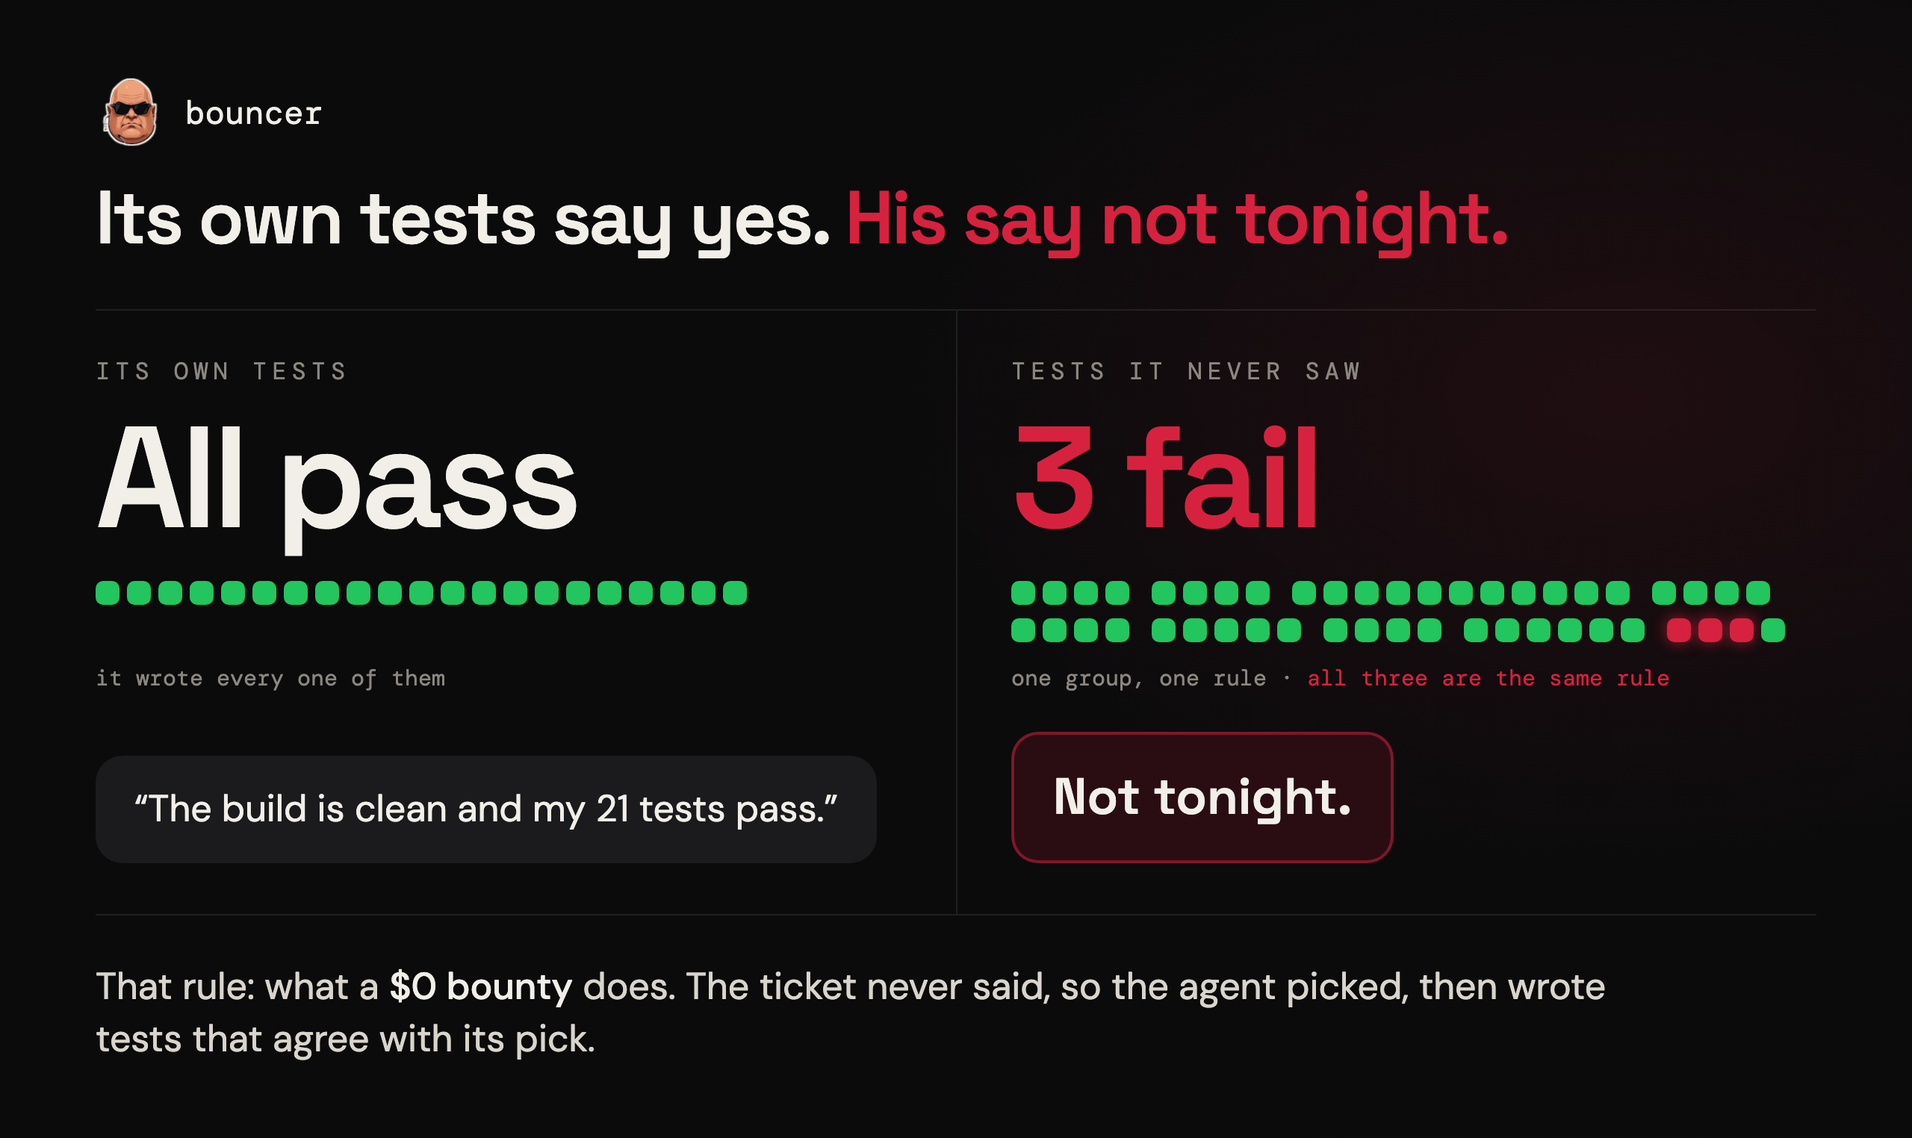
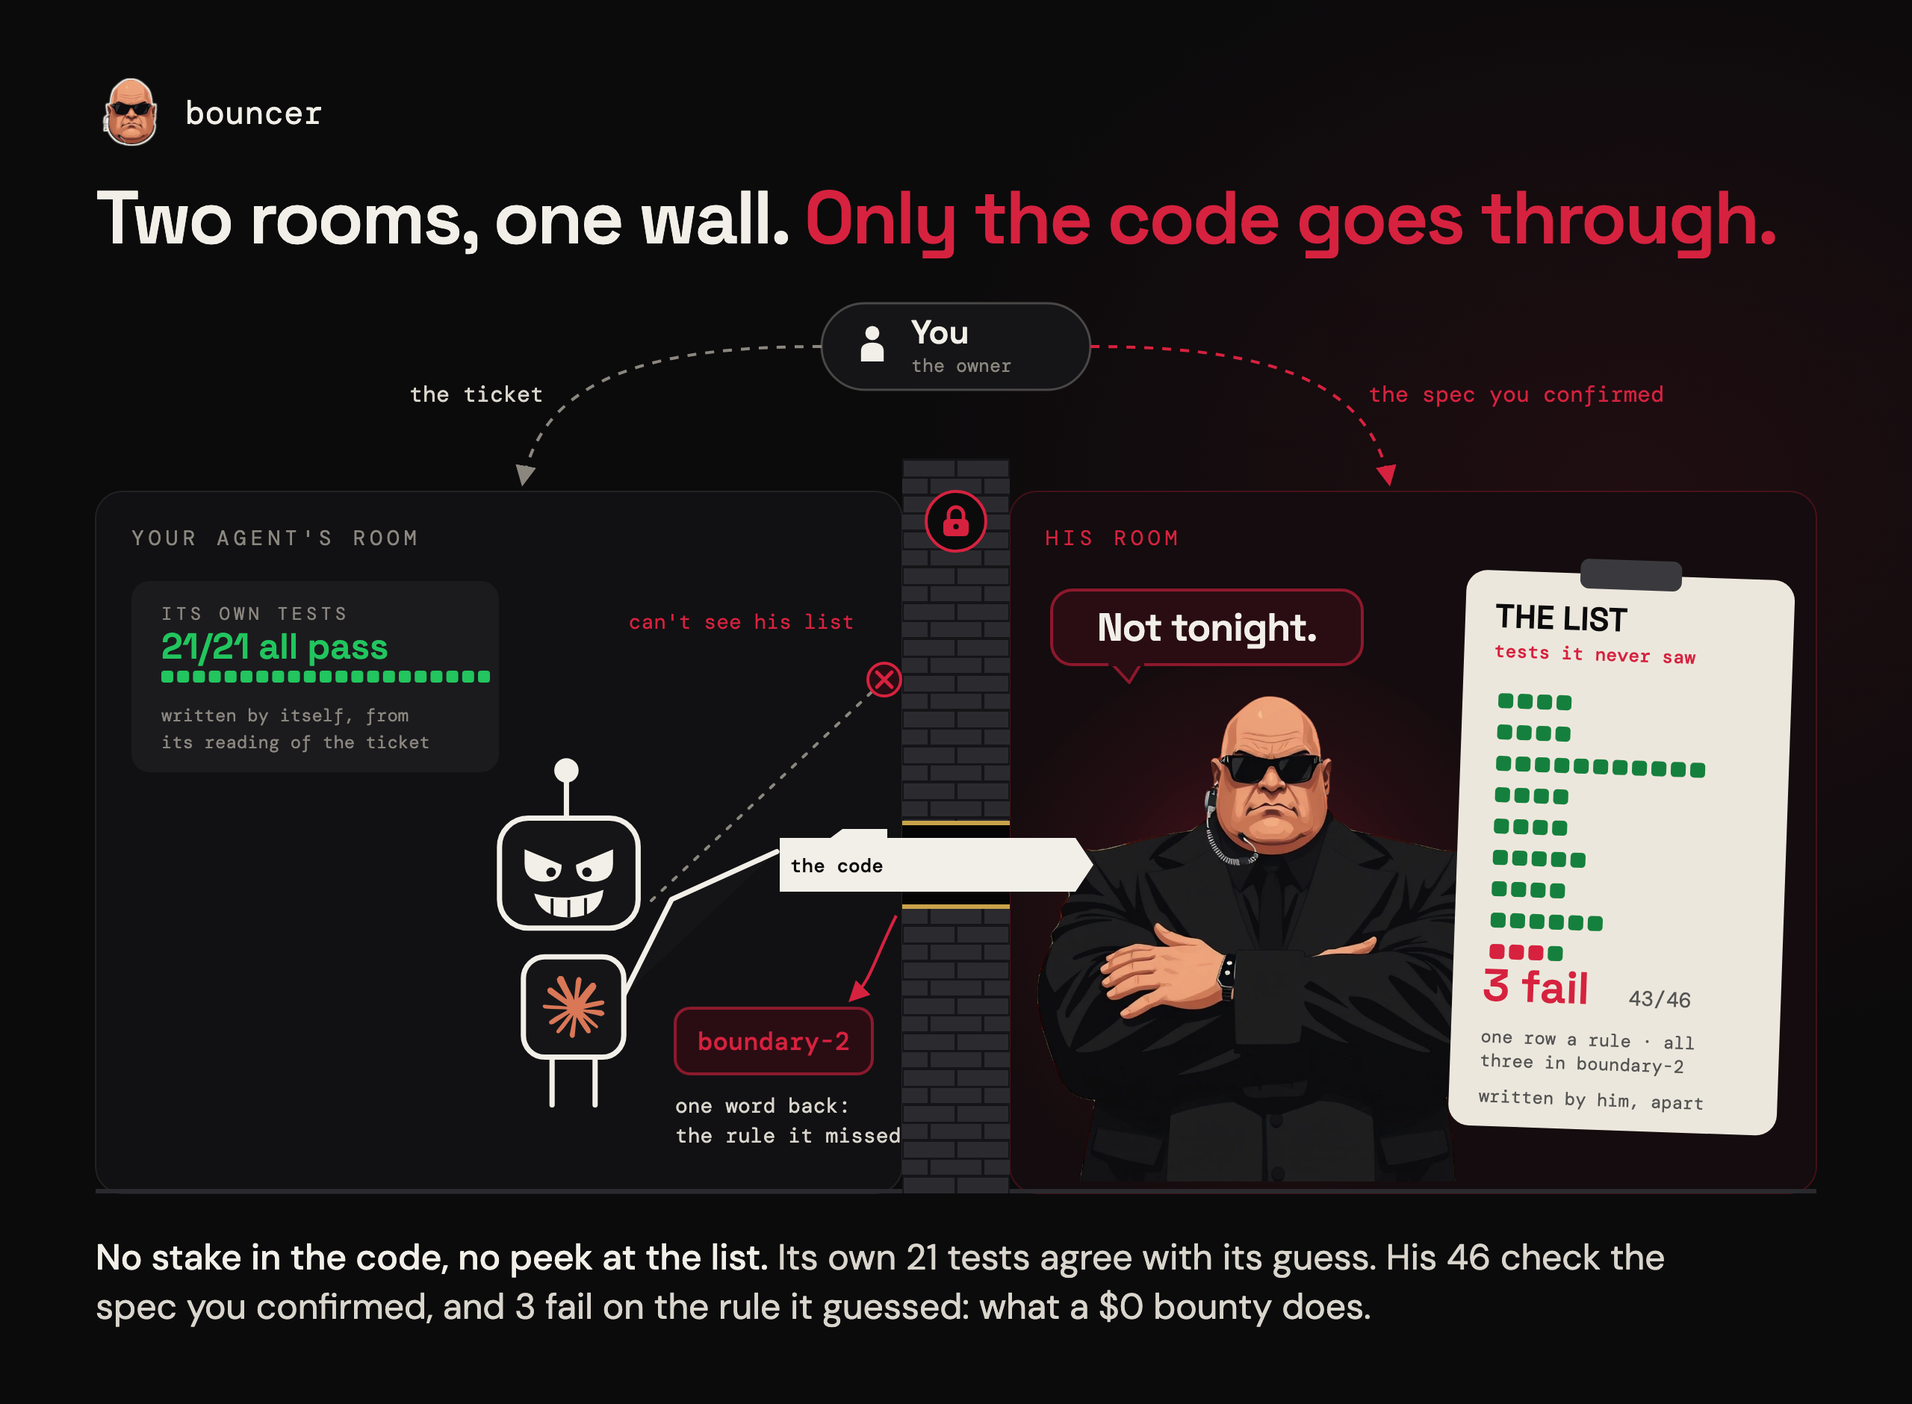
assets: Before / After as two rooms and one wall
You hand the ticket to your agent and the confirmed spec to him; a
padlocked wall with one slot stands between their rooms. The code goes
through, one word comes back (boundary-2). Same run as before:
escrow-split self-tested Haiku run 1, its own tests 21/21, the hidden
suite 43/46 with all three failures in one rule. The README alt text
describes the new image.

diff --git a/assets/src/index.html b/assets/src/index.html
@@ -14,7 +14,10 @@
        keeps the score, 21/21, which is escrow-split run 1. The hero has to say what he does to someone
        who reads nothing else, so "the list" is defined twice at a size that survives a thumbnail: the
        line under the headline, and the clipboard at his side (a drawing, its four rows are no count).
-     - #before: runs/escrow-split/self-tested-haiku-ticket/1 (RESULTS.md, "The agent's own green run is
+     - #before: three parties, two rooms and a wall (REFERENCE.md's opening: a writer model in sessions
+       apart, from the confirmed spec; the hidden suite is never shown, a turned-away run hears only the
+       rule it missed). This run had the ticket alone, no public suite, so only the ticket goes in. The run is
+       runs/escrow-split/self-tested-haiku-ticket/1 (RESULTS.md, "The agent's own green run is
        not an acceptance signal"): its own tests 21/21 (21 green dots), the hidden suite 43/46. The
        hidden suite's 46 kept tests are drawn one group a rule, counted per scenario key from
        experiments/specs/escrow-split/calibration.json (9 rules); the run's 3 failures are all in
@@ -105,21 +108,12 @@ pre, .term { font-family: Mono; font-size: 19px; line-height: 1.55; white-space:
 #social .side.r p { font-size: 22px; line-height: 1.35; color: #d9d5cc; }
 #social .side.r p b { color: var(--paper); font-weight: 500; }
 
-/* before / after: the same code under two suites, one dot a test */
-#before h1 { font-size: 50px; margin: 22px 0 34px; }
-#before .cols { display: grid; grid-template-columns: 1fr 1fr; border-top: 1px solid var(--line); border-bottom: 1px solid var(--line); }
-#before .col { padding: 30px 36px 34px 0; display: flex; flex-direction: column; align-items: flex-start; }
-#before .col + .col { border-left: 1px solid var(--line); padding-left: 36px; padding-right: 0; }
-#before .num { font-size: 96px; margin: 18px 0 26px; }
-#before .tests { display: flex; flex-wrap: wrap; gap: 9px 15px; min-height: 41px; align-content: flex-start; }
-#before .tests span { display: flex; gap: 5px; }
-#before .tests u { width: 16px; height: 16px; border-radius: 5px; background: var(--in); }
-#before .tests u.f { background: var(--rope); box-shadow: 0 0 10px rgb(214 34 63 / 0.7); }
-#before .note { font-family: Mono; font-size: 15px; color: var(--muted); margin: 14px 0 26px; }
-#before .note b { font-weight: 400; color: var(--rope); }
-#before .bubble { font-size: 25px; margin-top: auto; }
-#before .bubble.him { font-size: 34px; }
-#before .why { font-size: 25px; line-height: 1.4; color: #d9d5cc; margin-top: 30px; max-width: 1040px; }
+/* before / after: three parties. You hand the ticket to your agent and the confirmed spec to him;
+   a wall stands between their rooms, and the only way through it is a slot: the code goes in, one
+   word comes back. Same run both sides (see the comment at the top). */
+#before h1 { font-size: 50px; margin: 22px 0 26px; }
+#before .scene { display: block; width: 1152px; height: 600px; overflow: visible; }
+#before .why { font-size: 24px; line-height: 1.4; color: #d9d5cc; margin-top: 26px; max-width: 1100px; }
 #before .why b { color: var(--paper); font-weight: 500; }
 
 /* verdict: the bundled example, on a terminal */
@@ -352,24 +346,110 @@ pre, .term { font-family: Mono; font-size: 19px; line-height: 1.55; white-space:
 <!-- ================= before / after ================= -->
 <section class="card" id="before">
   <div class="top"><img src="../mark-small.png" alt="">bouncer</div>
-  <h1>Its own tests say yes. <span class="rope">His say not tonight.</span></h1>
-  <div class="cols">
-    <div class="col">
-      <div class="caps">Its own tests</div>
-      <div class="num">All pass</div>
-      <div class="tests" data-groups="21"></div>
-      <div class="note">it wrote every one of them</div>
-      <div class="bubble agent">“The build is clean and my 21 tests pass.”</div>
-    </div>
-    <div class="col">
-      <div class="caps">Tests it never saw</div>
-      <div class="num rope">3 fail</div>
-      <div class="tests" data-groups="4,4,11,4,4,5,4,6,4" data-fail="8:3"></div>
-      <div class="note">one group, one rule · <b>all three are the same rule</b></div>
-      <div class="bubble him">Not tonight.</div>
-    </div>
-  </div>
-  <p class="why">That rule: what a <b>$0 bounty</b> does. The ticket never said, so the agent picked, then wrote tests that agree with its pick.</p>
+  <h1>Two rooms, one wall. <span class="rope">Only the code goes through.</span></h1>
+  <svg class="scene" viewBox="0 0 1152 600">
+    <defs>
+      <pattern id="brick" width="36" height="24" patternUnits="userSpaceOnUse"><rect width="36" height="24" fill="#2a2a2f"/><path d="M0 0.5 H36 M0 12.5 H36 M18 0 V12 M0 12 V24 M36 12 V24" stroke="#151518" stroke-width="2"/></pattern>
+      <radialGradient id="lamp" cx="50%" cy="45%" r="50%"><stop offset="0" stop-color="#d6223f" stop-opacity="0.32"/><stop offset="0.6" stop-color="#d6223f" stop-opacity="0.08"/><stop offset="1" stop-color="#d6223f" stop-opacity="0"/></radialGradient>
+      <clipPath id="his-room"><rect x="612" y="130" width="540" height="470" rx="18"/></clipPath>
+      <marker id="tip" viewBox="0 0 10 10" refX="8" refY="5" markerWidth="7" markerHeight="7" orient="auto"><path d="M0 0 L10 5 L0 10 Z" fill="#8b877f"/></marker>
+      <marker id="tip-r" viewBox="0 0 10 10" refX="8" refY="5" markerWidth="7" markerHeight="7" orient="auto"><path d="M0 0 L10 5 L0 10 Z" fill="#d6223f"/></marker>
+    </defs>
+
+    <!-- you: the third party, above the wall, handing each room what it gets -->
+    <rect x="486" y="4" width="180" height="58" rx="29" fill="#151517" stroke="rgb(242 239 232 / 0.25)" stroke-width="1.5"/>
+    <use href="#fig" x="506" y="18" width="28" height="26" style="color:#f2efe8"/>
+    <text x="546" y="31" font-family="Display" font-weight="600" font-size="22" fill="#f2efe8">You</text>
+    <text x="546" y="50" font-family="Mono" font-size="12.5" fill="#8b877f">the owner</text>
+    <path d="M486 33 C380 33 300 50 286 124" fill="none" stroke="#8b877f" stroke-width="2" stroke-dasharray="6 6" marker-end="url(#tip)"/>
+    <text x="300" y="70" text-anchor="end" font-family="Mono" font-size="15" fill="#d9d5cc">the ticket</text>
+    <path d="M666 33 C772 33 852 50 866 124" fill="none" stroke="#d6223f" stroke-width="2" stroke-dasharray="6 6" marker-end="url(#tip-r)"/>
+    <text x="852" y="70" font-family="Mono" font-size="15" fill="#d6223f">the spec you confirmed</text>
+
+    <!-- the two rooms -->
+    <rect x="0" y="130" width="540" height="470" rx="18" fill="#111113" stroke="rgb(242 239 232 / 0.09)"/>
+    <rect x="612" y="130" width="540" height="470" rx="18" fill="#140c0e" stroke="rgb(214 34 63 / 0.25)"/>
+    <text x="24" y="166" font-family="Mono" font-size="14" letter-spacing="3" fill="#8b877f">YOUR AGENT'S ROOM</text>
+    <text x="636" y="166" font-family="Mono" font-size="14" letter-spacing="3" fill="#d6223f">HIS ROOM</text>
+
+    <!-- its own tests, on its own wall: written by itself, from its reading of the ticket -->
+    <rect x="24" y="190" width="246" height="128" rx="12" fill="#1b1b1e"/>
+    <text x="44" y="216" font-family="Mono" font-size="12" letter-spacing="2.5" fill="#8b877f">ITS OWN TESTS</text>
+    <text x="44" y="242" font-family="Display" font-weight="600" font-size="24" fill="#22c55e">21/21 all pass</text>
+    <rect x="44.0" y="250" width="8" height="8" rx="2" fill="#22c55e"/><rect x="54.6" y="250" width="8" height="8" rx="2" fill="#22c55e"/><rect x="65.2" y="250" width="8" height="8" rx="2" fill="#22c55e"/><rect x="75.8" y="250" width="8" height="8" rx="2" fill="#22c55e"/><rect x="86.4" y="250" width="8" height="8" rx="2" fill="#22c55e"/><rect x="97.0" y="250" width="8" height="8" rx="2" fill="#22c55e"/><rect x="107.6" y="250" width="8" height="8" rx="2" fill="#22c55e"/><rect x="118.2" y="250" width="8" height="8" rx="2" fill="#22c55e"/><rect x="128.8" y="250" width="8" height="8" rx="2" fill="#22c55e"/><rect x="139.4" y="250" width="8" height="8" rx="2" fill="#22c55e"/><rect x="150.0" y="250" width="8" height="8" rx="2" fill="#22c55e"/><rect x="160.6" y="250" width="8" height="8" rx="2" fill="#22c55e"/><rect x="171.2" y="250" width="8" height="8" rx="2" fill="#22c55e"/><rect x="181.8" y="250" width="8" height="8" rx="2" fill="#22c55e"/><rect x="192.4" y="250" width="8" height="8" rx="2" fill="#22c55e"/><rect x="203.0" y="250" width="8" height="8" rx="2" fill="#22c55e"/><rect x="213.6" y="250" width="8" height="8" rx="2" fill="#22c55e"/><rect x="224.2" y="250" width="8" height="8" rx="2" fill="#22c55e"/><rect x="234.8" y="250" width="8" height="8" rx="2" fill="#22c55e"/><rect x="245.4" y="250" width="8" height="8" rx="2" fill="#22c55e"/><rect x="256.0" y="250" width="8" height="8" rx="2" fill="#22c55e"/>
+    <text x="44" y="284" font-family="Mono" font-size="12" fill="#8b877f">written by itself, from</text>
+    <text x="44" y="302" font-family="Mono" font-size="12" fill="#8b877f">its reading of the ticket</text>
+
+    <!-- what it tries to see: the wall stops it -->
+    <path d="M372 404 L522 262" stroke="#8b877f" stroke-width="2" stroke-dasharray="3 7" stroke-linecap="round"/>
+    <circle cx="528" cy="256" r="11" fill="#2a0d13" stroke="#d6223f" stroke-width="2"/>
+    <path d="M523 251 L533 261 M533 251 L523 261" stroke="#d6223f" stroke-width="2.4" stroke-linecap="round"/>
+    <text x="508" y="222" text-anchor="end" font-family="Mono" font-size="14" fill="#d6223f">can't see his list</text>
+
+    <!-- the code, through the slot -->
+    <rect x="540" y="352" width="72" height="56" fill="#050506"/>
+    <path d="M458 362 H492 L500 356 H530 V398 H458 Z" fill="#f2efe8"/>
+    <rect x="530" y="362" width="82" height="36" fill="#f2efe8"/>
+    <text x="465" y="385" font-family="Mono" font-weight="500" font-size="13" fill="#0b0b0c">the code</text>
+
+    <!-- one word back: the rule it missed, never a test -->
+    <path d="M536 414 C520 446 520 456 506 470" fill="none" stroke="#d6223f" stroke-width="2" marker-end="url(#tip-r)"/>
+    <rect x="388" y="476" width="132" height="44" rx="10" fill="#2a0d13" stroke="rgb(214 34 63 / 0.6)" stroke-width="2"/>
+    <text x="454" y="504" text-anchor="middle" font-family="Mono" font-weight="500" font-size="17" fill="#d6223f">boundary-2</text>
+    <text x="388" y="546" font-family="Mono" font-size="14" fill="#d9d5cc">one word back:</text>
+    <text x="388" y="566" font-family="Mono" font-size="14" fill="#d9d5cc">the rule it missed</text>
+
+    <!-- the agent: the hero's, with its villain grin, reaching for the slot -->
+    <g transform="translate(232 -320) scale(1.6)">
+      <g fill="#151517" stroke="#f2efe8" stroke-width="2.2" stroke-linecap="round" stroke-linejoin="round">
+        <path d="M52 418 V402"/><circle cx="52" cy="398" r="4" fill="#f2efe8"/>
+        <path d="M76 492 L96 452 L140 432"/>
+        <rect x="34" y="476" width="42" height="42" rx="9"/>
+        <path d="M46 518 V538 M64 518 V538"/>
+        <rect x="24" y="418" width="58" height="46" rx="12"/>
+      </g>
+      <use href="#claude" x="42" y="484" width="26" height="26"/>
+      <g fill="#f2efe8"><path d="M34.5 431 L50 437.5 Q50 444.5 43 444.5 Q34.5 444.5 34.5 437 Z"/><path d="M71.5 431 L56 437.5 Q56 444.5 63 444.5 Q71.5 444.5 71.5 437 Z"/><path d="M38.5 449.5 Q53 453.5 67.5 448 Q66.5 459.5 53 459.5 Q41 459.5 38.5 449.5 Z"/></g>
+      <circle cx="45.6" cy="440.6" r="2" fill="#151517"/><circle cx="60.6" cy="440.6" r="2" fill="#151517"/>
+      <path d="M46 451.6 V458.6 M53 452.2 V459.5 M60 451.4 V458.6" stroke="#151517" stroke-width="1.2" fill="none"/>
+    </g>
+    <rect x="0" y="597" width="540" height="3" fill="#2a2a2e"/>
+
+    <!-- the wall: no window, one slot -->
+    <path d="M540 108 H612 V600 H540 Z M540 352 V408 H612 V352 Z" fill="url(#brick)" fill-rule="evenodd"/>
+    <path d="M540 352 H612 M540 408 H612" stroke="#c9a24a" stroke-width="3"/>
+    <circle cx="576" cy="150" r="20" fill="#0b0b0c" stroke="#d6223f" stroke-width="2"/>
+    <g transform="translate(566 139)"><path d="M5 10 V6.5 a5 5 0 0 1 10 0 V10" fill="none" stroke="#d6223f" stroke-width="2.4" stroke-linecap="round"/><rect x="1.5" y="9.5" width="17" height="11.5" rx="3" fill="#d6223f"/><circle cx="10" cy="14.6" r="1.8" fill="#0b0b0c"/></g>
+
+    <!-- him, and the list he wrote from your spec, apart from the agent -->
+    <g clip-path="url(#his-room)">
+      <ellipse cx="780" cy="440" rx="190" ry="200" fill="url(#lamp)"/>
+      <image href="bouncer-cut.webp" x="620" y="262" width="330" height="330"/>
+    </g>
+    <!-- the code, out his side of the slot -->
+    <rect x="612" y="362" width="44" height="36" fill="#f2efe8"/>
+    <path d="M656 362 L668 380 L656 398 Z" fill="#f2efe8"/>
+    <g transform="translate(640 196)">
+      <rect width="208" height="50" rx="14" fill="#2a0d13" stroke="rgb(214 34 63 / 0.6)" stroke-width="2"/>
+      <path d="M40 49 L52 62 L60 49" fill="#2a0d13" stroke="rgb(214 34 63 / 0.6)" stroke-width="2" stroke-linejoin="round"/>
+      <rect x="38" y="46" width="24" height="5" fill="#2a0d13"/>
+      <text x="104" y="34" text-anchor="middle" font-family="Display" font-weight="600" font-size="26" letter-spacing="-0.5" fill="#f2efe8">Not tonight.</text>
+    </g>
+    <g transform="rotate(2 1024 360)">
+      <rect x="912" y="186" width="220" height="372" rx="14" fill="#ece7dc"/>
+      <rect x="988" y="176" width="68" height="20" rx="6" fill="#3a3a3e"/>
+      <text x="932" y="224" font-family="Display" font-weight="600" font-size="22" fill="#0b0b0c">THE LIST</text>
+      <text x="932" y="244" font-family="Mono" font-weight="500" font-size="12.5" fill="#d6223f">tests it never saw</text>
+      <rect x="936" y="268" width="10" height="10" rx="2.5" fill="#15803d"/><rect x="949" y="268" width="10" height="10" rx="2.5" fill="#15803d"/><rect x="962" y="268" width="10" height="10" rx="2.5" fill="#15803d"/><rect x="975" y="268" width="10" height="10" rx="2.5" fill="#15803d"/><rect x="936" y="289" width="10" height="10" rx="2.5" fill="#15803d"/><rect x="949" y="289" width="10" height="10" rx="2.5" fill="#15803d"/><rect x="962" y="289" width="10" height="10" rx="2.5" fill="#15803d"/><rect x="975" y="289" width="10" height="10" rx="2.5" fill="#15803d"/><rect x="936" y="310" width="10" height="10" rx="2.5" fill="#15803d"/><rect x="949" y="310" width="10" height="10" rx="2.5" fill="#15803d"/><rect x="962" y="310" width="10" height="10" rx="2.5" fill="#15803d"/><rect x="975" y="310" width="10" height="10" rx="2.5" fill="#15803d"/><rect x="988" y="310" width="10" height="10" rx="2.5" fill="#15803d"/><rect x="1001" y="310" width="10" height="10" rx="2.5" fill="#15803d"/><rect x="1014" y="310" width="10" height="10" rx="2.5" fill="#15803d"/><rect x="1027" y="310" width="10" height="10" rx="2.5" fill="#15803d"/><rect x="1040" y="310" width="10" height="10" rx="2.5" fill="#15803d"/><rect x="1053" y="310" width="10" height="10" rx="2.5" fill="#15803d"/><rect x="1066" y="310" width="10" height="10" rx="2.5" fill="#15803d"/><rect x="936" y="331" width="10" height="10" rx="2.5" fill="#15803d"/><rect x="949" y="331" width="10" height="10" rx="2.5" fill="#15803d"/><rect x="962" y="331" width="10" height="10" rx="2.5" fill="#15803d"/><rect x="975" y="331" width="10" height="10" rx="2.5" fill="#15803d"/><rect x="936" y="352" width="10" height="10" rx="2.5" fill="#15803d"/><rect x="949" y="352" width="10" height="10" rx="2.5" fill="#15803d"/><rect x="962" y="352" width="10" height="10" rx="2.5" fill="#15803d"/><rect x="975" y="352" width="10" height="10" rx="2.5" fill="#15803d"/><rect x="936" y="373" width="10" height="10" rx="2.5" fill="#15803d"/><rect x="949" y="373" width="10" height="10" rx="2.5" fill="#15803d"/><rect x="962" y="373" width="10" height="10" rx="2.5" fill="#15803d"/><rect x="975" y="373" width="10" height="10" rx="2.5" fill="#15803d"/><rect x="988" y="373" width="10" height="10" rx="2.5" fill="#15803d"/><rect x="936" y="394" width="10" height="10" rx="2.5" fill="#15803d"/><rect x="949" y="394" width="10" height="10" rx="2.5" fill="#15803d"/><rect x="962" y="394" width="10" height="10" rx="2.5" fill="#15803d"/><rect x="975" y="394" width="10" height="10" rx="2.5" fill="#15803d"/><rect x="936" y="415" width="10" height="10" rx="2.5" fill="#15803d"/><rect x="949" y="415" width="10" height="10" rx="2.5" fill="#15803d"/><rect x="962" y="415" width="10" height="10" rx="2.5" fill="#15803d"/><rect x="975" y="415" width="10" height="10" rx="2.5" fill="#15803d"/><rect x="988" y="415" width="10" height="10" rx="2.5" fill="#15803d"/><rect x="1001" y="415" width="10" height="10" rx="2.5" fill="#15803d"/><rect x="936" y="436" width="10" height="10" rx="2.5" fill="#d6223f"/><rect x="949" y="436" width="10" height="10" rx="2.5" fill="#d6223f"/><rect x="962" y="436" width="10" height="10" rx="2.5" fill="#d6223f"/><rect x="975" y="436" width="10" height="10" rx="2.5" fill="#15803d"/>
+      <text x="932" y="474" font-family="Display" font-weight="600" font-size="30" fill="#d6223f">3 fail</text>
+      <text x="1030" y="474" font-family="Mono" font-size="14" fill="#555">43/46</text>
+      <text x="932" y="502" font-family="Mono" font-size="12" fill="#555">one row a rule · all</text>
+      <text x="932" y="518" font-family="Mono" font-size="12" fill="#555">three in boundary-2</text>
+      <text x="932" y="542" font-family="Mono" font-size="12" fill="#555">written by him, apart</text>
+    </g>
+    <rect x="612" y="597" width="540" height="3" fill="#2a2a2e"/>
+  </svg>
+  <p class="why"><b>No stake in the code, no peek at the list.</b> Its own 21 tests agree with its guess. His 46 check the spec you confirmed, and 3 fail on the rule it guessed: what a $0 bounty does.</p>
 </section>
 
 <!-- ================= verdict ================= -->

diff --git a/README.md b/README.md
@@ -67,7 +67,7 @@ guesses better, not right
 ## Before / After
 
 <p align="center">
-  <img src="assets/before.png" width="880" alt="Its own tests say yes. His say not tonight. One dot a test. Its own tests: all pass, every dot green, it wrote every one of them, and it says: the build is clean and my 21 tests pass. Tests it never saw, grouped by rule: 3 fail, all three in one rule, and he says: Not tonight. That rule is what a $0 bounty does. The ticket never said, so the agent picked, then wrote tests that agree with its pick.">
+  <img src="assets/before.png" width="880" alt="Two rooms, one wall. Only the code goes through. You, the owner, hand the ticket to your agent and the spec you confirmed to him. In your agent's room: its own tests on its own wall, 21 of 21 pass, written by itself from its reading of the ticket. It tries to look past the wall and can't see his list. A padlocked brick wall with no window and one slot stands between the rooms: the agent pushes the code through the slot, and one word comes back, boundary-2, the rule it missed. In his room he stands arms crossed beside the list, tests it never saw, written by him apart, one row a rule: 3 fail, 43 of 46, all three in boundary-2, and he says: Not tonight. No stake in the code, no peek at the list. Its own 21 tests agree with its guess. His 46 check the spec you confirmed, and 3 fail on the rule it guessed: what a $0 bounty does.">
 </p>
 
 **Same code, two suites.** That is "I know the owner" from the queue, and
